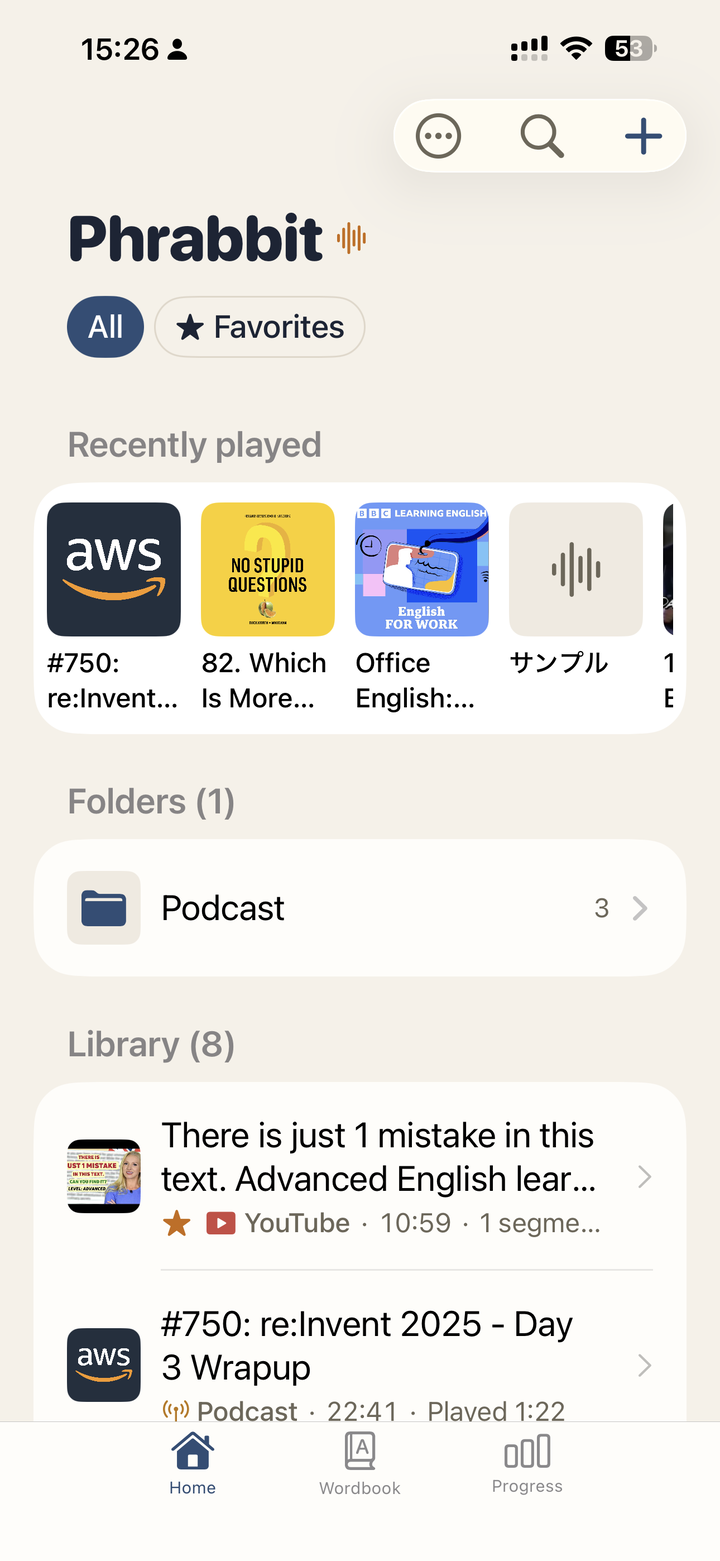
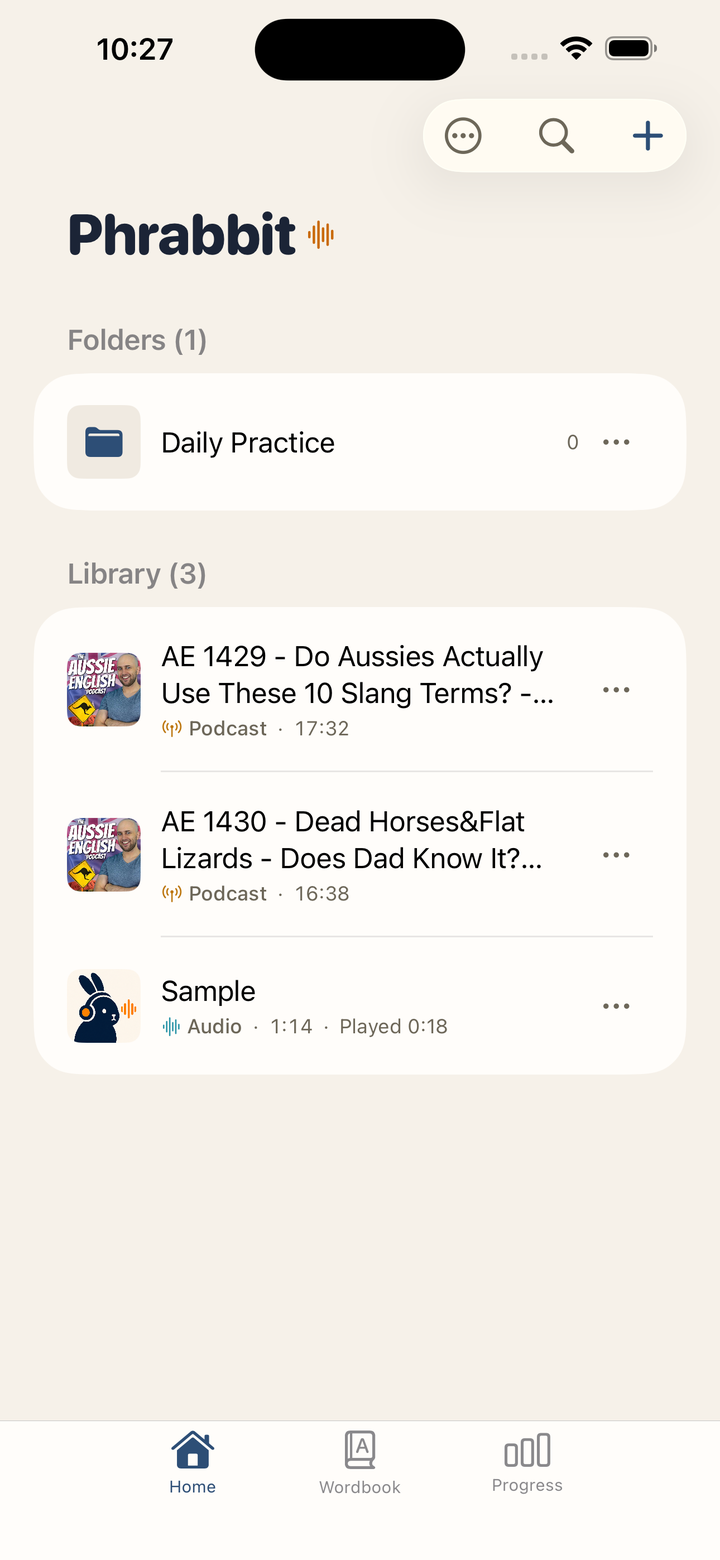
docs: shoot the August captures on the English build
Nine captures from the iPhone 16 Plus simulator on 2.0.0 (22), English UI,
portrait, Light Mode, default type size:

  22-row-actions, 23-podcast-language, 24-podcast-browse,
  26-segment-recognition, 27-row-info   (new, shared by every locale)
  en/05-home, en/11-add-menu, en/17-podcast-script,
  en/18-podcast-downloads, en/19-settings   (English refreshes)

The English page now links its own captures for the add menu, the podcast
screens and Settings instead of the shared Korean ones, which predate the
trailing row menus and the podcast re-skin.

Also: the episode badges are called **Creator captions** and **Creator
transcript** in the app, not Script / Text only.

Still outstanding: 25-subtitle-translation needs a real Apple Intelligence
device (the simulator offers no translation targets), 14-bookmarks and
20-video-player need staged bookmarks, and the four other locale pages do
not link the new shared captures yet.

using Claude Opus 5

diff --git a/en.md b/en.md
@@ -75,6 +75,12 @@ If the library is empty, you can use the centered **Add** button to add material
 ### 2-2. Favorites and Folders
 Tap **⋯** at the end of a library row, or touch and hold the row, to open the same management menu. Choose **Add to Favorites** to star it, or **Move to Folder…** to organize it. For a regular library item, **Info** shows the full title and details that may not fit in the row, such as its type, duration, play position, added date or segment count, and folder location. A folder's menu contains **Rename**, **Move to Folder…**, and **Delete**.
 
+![Row actions](images/iphone/22-row-actions.png)
+*▲ The same menu opens from the visible ⋯ or from touch and hold*
+
+![Row information](images/iphone/27-row-info.png)
+*▲ Info shows what the row itself has no space for*
+
 Once at least one favorite exists, the **All / Favorites** chips appear below the wordmark; **Favorites** shows a flat list across the whole library, regardless of folder.
 
 Use **More > New Folder** to create folders. When folders exist, **More > Select** lets you select multiple items and move them together, and **All Items** opens the whole library in one list. Folders can contain other folders.
@@ -100,7 +106,7 @@ Deleting an item also removes its waveform cache, bookmarks, subtitles, and save
 
 Tap the plus button at the top right of Home to open the add menu.
 
-![Add menu](images/iphone/11-add-menu.png)
+![Add menu](images/iphone/en/11-add-menu.png)
 *▲ Menu for adding files, music, YouTube links, and podcasts*
 
 ### 3-1. Add an Audio File
@@ -314,6 +320,9 @@ To recognize the speech again, confirm the language under **Recognition language
 
 ### 8-2. Edit a Subtitle
 Tap the edit button on a subtitle card to modify the text. If you edited an STT-generated subtitle, the original text is shown as well, and you can use **Reset** if needed. The editor also lets you use **Recognize again** for only that sentence range and bring the preview into the draft with **Put in editor**. Nothing is saved until you tap **Save** at the top.
+
+![Recognizing one segment again](images/iphone/26-segment-recognition.png)
+*▲ Recognition produces a preview; your draft is left alone until you insert it*
 
 ### 8-3. Translate All Subtitles
 On iOS 26.4 or later and a device that supports Apple Intelligence, a **Translate** control may appear above the subtitle list. Choose a target language and tap **Start translation** to translate all subtitles on the device. Audio and subtitle text are not uploaded, and saved results are reused the next time you open the same material.
@@ -581,6 +590,12 @@ Tap **Add from Podcast** in the Home plus menu. The first time, choose the langu
 
 After choosing a language, topic chips and show rails appear under **Browse in …**. Learner shows and current news are selected first. Turn chips on or off to add or hide lists such as beginner, slow speech, history, travel, or music. Each language shows only topics with useful search results. Use **Change language** at any time.
 
+![Choosing a practice language](images/iphone/23-podcast-language.png)
+*▲ The first visit asks which language you are practising*
+
+![Browsing shows by language](images/iphone/24-podcast-browse.png)
+*▲ Topic chips filter the rails; each rail scrolls sideways*
+
 **Chosen by Phrabbit** marks a hand-picked list; **Apple Podcasts search results** marks an Apple search. A badge such as “Taught in English” means the show teaches the practice language using another language.
 
 ### 13-2. Search by Name or RSS URL
@@ -595,14 +610,14 @@ Tap a channel to open its episode list.
 
 | Badge | Meaning |
 |---|---|
-| **Script** | Official time-synced transcript is available |
-| **Text only** | Official text-only material is available |
+| **Creator captions** | Official time-synced captions are available |
+| **Creator transcript** | Official text-only material is available |
 | No badge | No official transcript |
 
-![Podcast episode with Script badge](images/iphone/17-podcast-script.png)
-*▲ Episodes with a Script badge can import official transcripts*
+![Podcast episode with a Creator captions badge](images/iphone/en/17-podcast-script.png)
+*▲ Episodes with a Creator captions badge can import official captions*
 
-Episodes with the **Script** badge can import the podcast's official transcript without running STT again. This is usually more accurate than automatic recognition and requires less waiting, so Script episodes are recommended first for study material.
+Episodes with the **Creator captions** badge can import the podcast's official captions without running STT again. This is usually more accurate than automatic recognition and requires less waiting, so those episodes are recommended first for study material.
 
 ### 13-5. Enter an RSS URL Directly
 Besides pasting an RSS URL into the search field, you can expand **Add via RSS URL (advanced)** and enter it manually. Use this for podcasts that do not appear in Apple Podcasts search or when you already know the RSS address.
@@ -610,7 +625,7 @@ Besides pasting an RSS URL into the search field, you can expand **Add via RSS U
 ### 13-6. Downloads and Cellular Data
 The default setting is **Download over Wi-Fi only**. If you allow cellular downloads, a confirmation may appear before downloading a large episode.
 
-![Podcast download status](images/iphone/18-podcast-downloads.png)
+![Podcast download status](images/iphone/en/18-podcast-downloads.png)
 *▲ Episode list showing not-downloaded and downloaded states*
 
 Tap an episode to start downloading. While it downloads, tap the stop square inside the progress ring to cancel. If a clock indicates that the episode is waiting for Wi-Fi, tap the episode again to remove it from the queue. Tap an episode with a check mark to open the player.
@@ -639,7 +654,7 @@ Tap a Focused Segments or Most Practiced item to return to the original material
 ### 14-2. Settings
 Tap **More** at the top right of Home, then choose **Settings**.
 
-![Settings](images/iphone/19-settings.png)
+![Settings](images/iphone/en/19-settings.png)
 *▲ Settings for background playback, downloads, learning stats reset, and support*
 
 You can manage:
